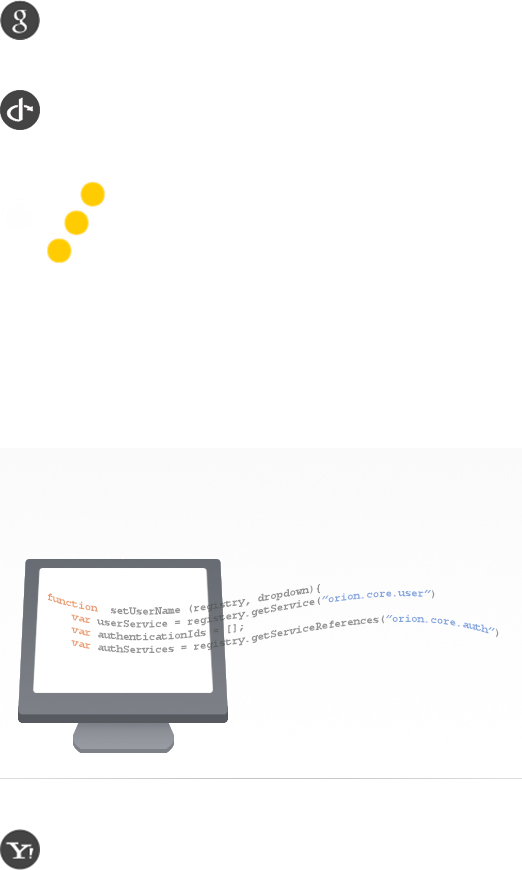
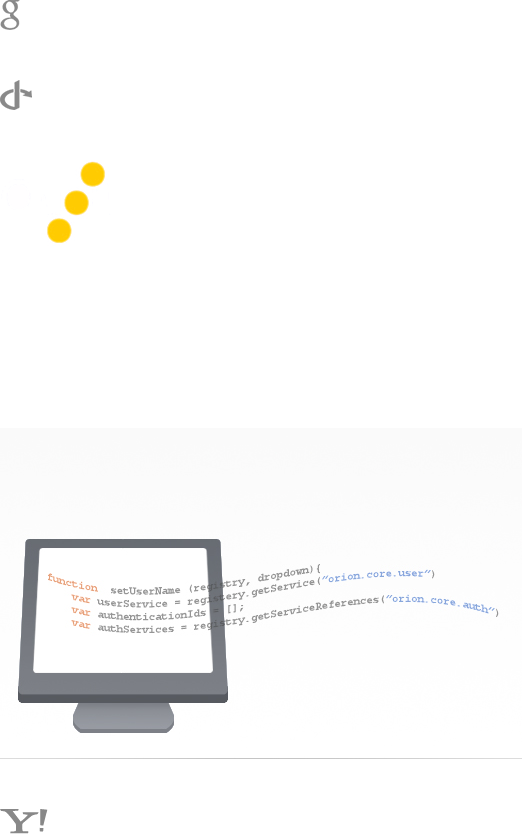
Bug 383150

diff --git a/bundles/org.eclipse.orion.client.core/web/mixloginstatic/css/landing.css b/bundles/org.eclipse.orion.client.core/web/mixloginstatic/css/landing.css
@@ -45,7 +45,7 @@ input[type="button"]:active {
 	float:right;
 	margin-right:20px;
 	margin-top:65px;
-	background-position: 0 -382px;
+	background-position: 0 -362px;
 }
 
 .orion-nav-bar{
@@ -53,9 +53,12 @@ input[type="button"]:active {
 	padding-right: 5px;
 }
 
+
+
+
 .orion-logo{
 	background: url('combined.png');
-	background-position: 0 -180px; 
+	background-position: 0 -160px; 
 	float:left;
 	height:86px;
 	width:114px;
@@ -68,7 +71,7 @@ input[type="button"]:active {
 	float:right;
 	margin-right:20px;
 	margin-top:65px;
-	background-position: 0 -316px;
+	background-position: 0 -296px;
 }
 
 
@@ -113,7 +116,7 @@ input[type="button"]:active {
 	height: 331px;
 	opacity: 0.8;
 	background: url('combined.png');
-	background-position: 0 -448px; 
+	background-position: 0 -428px; 
 }
 
 .orion-welcome-area-text {
@@ -202,6 +205,7 @@ input[type="button"]:active {
 	vertical-align: 8px;
 	padding-right: 20px;
 	float:left;
+	line-height: 48px;
 }
 
 .orion-register-header{
@@ -392,45 +396,51 @@ a.loginwindow {
 
 .yahooIcon{
 	background: url('combined.png');
-	background-position: -0px -829px; 
-	width: 40px; 
-	height: 41px;
-	float:left;
-	padding-right:15px;
-	opacity:0.5;
+	background-position: 0 -809px;
+	width: 50px; 
+	height: 25px;
+	margin-top: 2px;
+	margin-bottom: 3px;
+	opacity:0.7;
 }
 
 .yahooIcon:hover{
-	opacity:0.6;
+	opacity:1;
 }
 
 .openIdIcon{
-	background: url('combined.png');
-	background-position: 0 -90px; 
-	width: 40px; 
-	height: 40px;
-	float:left;
-	padding-right:15px;
-	opacity:0.5;
+	background: url('combined.png') no-repeat;
+	background-position: 0 -80px;
+	width: 30px; 
+	height: 30px;
+	opacity:0.7;
 }
 
 .openIdIcon:hover{
-	opacity:0.6;
+	opacity:1;
 }
 
 .googleIcon{
-	background: url('combined.png');
+	background: url('combined.png') no-repeat;
 	background-position: 0 0; 
-	width: 40px; 
-	height: 40px;
-	float:left;
-	padding-right:15px;
-	opacity:0.5;
+	width: 26px;
+	height: 30px;
+	margin-left: 4px;
+	opacity:0.7;
 }
 
 .googleIcon:hover{
-	opacity:0.6;
+	opacity:1;
 }
+
+.openIdWrapper{
+	padding:5px;
+	margin:5px;
+	border: 1px solid #CCC;
+	border-radius:4px;
+	float:left;
+}
+
 
 
 

diff --git a/bundles/org.eclipse.orion.client.core/web/mixloginstatic/LoginWindow.html b/bundles/org.eclipse.orion.client.core/web/mixloginstatic/LoginWindow.html
@@ -138,17 +138,22 @@ require(["LoginWindow.js"]);
 			</div>
 
 			<div class="orion-open" id="orionOpen">
-				<!-- div class="orion-or-div">or</div><input type="submit" class="orion-google-button" value="Sign in with Google"><input type="submit" class="orion-openid-button" value="Sign in with OpenId" -->
 				<div id="openIDLogin" class="orion-open-header">Log in with:</div>
 				<div class="orion-open-images">
-					<a id="googleLoginLink" class="loginWindow googleIcon" aria-labelledby="openIDLogin googleLogin"> 
-						<div id="googleLogin" class="googleIcon" alt="Google" title="Google"></div>
+					<a id="googleLoginLink" class="loginWindow" aria-labelledby="openIDLogin googleLogin"> 
+						<div class='openIdWrapper'>
+							<div id="googleLogin" class="googleIcon" alt="Google" title="Google"></div>
+						</div>
 					</a> 
 					<a id="yahooLoginLink" class="loginWindow" aria-labelledby="openIDLogin yahooLogin"> 
-						<div id="yahooLogin" class="yahooIcon" alt="Yahoo!" title="Yahoo!"></div> 
+						<div class='openIdWrapper'>
+							<div id="yahooLogin" class="yahooIcon" alt="Yahoo!" title="Yahoo!"></div> 
+						</div>
 					</a> 
 					<a id="myopenidLoginLink" class="loginWindow" aria-labelledby="openIDLogin myopenidLogin"> 
-						<div id="myopenidLogin" class="openIdIcon" alt="myOpenID" title="myOpenID"></div> 
+						<div class='openIdWrapper'>
+							<div id="myopenidLogin" class="openIdIcon" alt="myOpenID" title="myOpenID"></div> 
+						</div>
 					</a>
 				</div>
 			</div>

diff --git a/bundles/org.eclipse.orion.client.core/web/mixloginstatic/LoginWindow.js b/bundles/org.eclipse.orion.client.core/web/mixloginstatic/LoginWindow.js
@@ -285,8 +285,8 @@ define(['domReady'], function(domReady) {
 	function formatForNoUserCreation() {
 		document.getElementById('orionRegister').style.visibility = 'hidden';
 		document.getElementById('orionOpen').style.top = '188px';
-		document.getElementById('orionOpen').style.height = '75px';
-		document.getElementById('orionOpen').style.paddingTop = '55px';
+		document.getElementById('orionOpen').style.height = '85px';
+		document.getElementById('orionOpen').style.paddingTop = '45px';
 	}
 
 	function revealResetUser() {
@@ -308,8 +308,8 @@ define(['domReady'], function(domReady) {
 			document.getElementById('orionRegister').style.visibility = '';
 		} else {
 			document.getElementById('orionOpen').style.top = '188px';
-			document.getElementById('orionOpen').style.height = '75px';
-			document.getElementById('orionOpen').style.paddingTop = '55px';
+			document.getElementById('orionOpen').style.height = '85px';
+			document.getElementById('orionOpen').style.paddingTop = '45px';
 		}
 		document.getElementById('newUserHeaderShown').style.display = '';
 		document.getElementById('orionReset').style.visibility = 'hidden';

diff --git a/bundles/org.eclipse.orion.client.git/web/git/git-status2.css b/bundles/org.eclipse.orion.client.git/web/git/git-status2.css
@@ -44,6 +44,10 @@
     width: 100%;
 }
 
+.gitMainDescription{
+	padding-left:8px;
+}
+
 pre {
 	margin-left: 10px;
     padding: 15px;
@@ -53,3 +57,5 @@ pre {
     white-space: pre-wrap;
     width: 60%
 }
+
+

diff --git a/bundles/org.eclipse.orion.client.core/web/css/sections.css b/bundles/org.eclipse.orion.client.core/web/css/sections.css
@@ -30,6 +30,7 @@
 
 .sectionExplorerActions {
 	text-align: right;
+	padding-right:4px;
 }
 
 .sectionActions {
